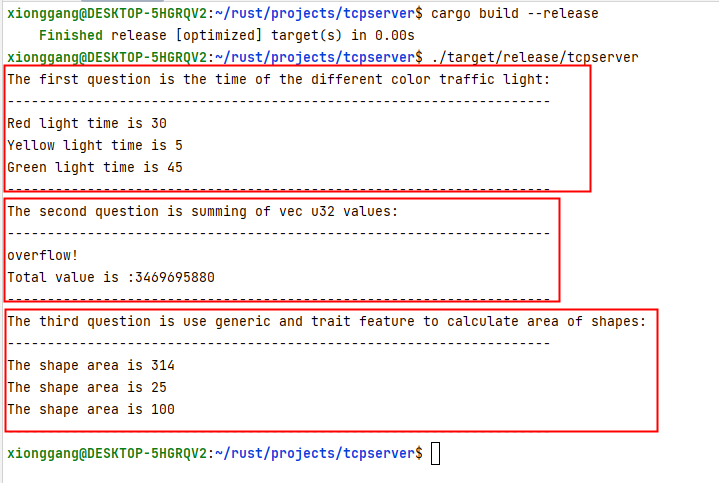
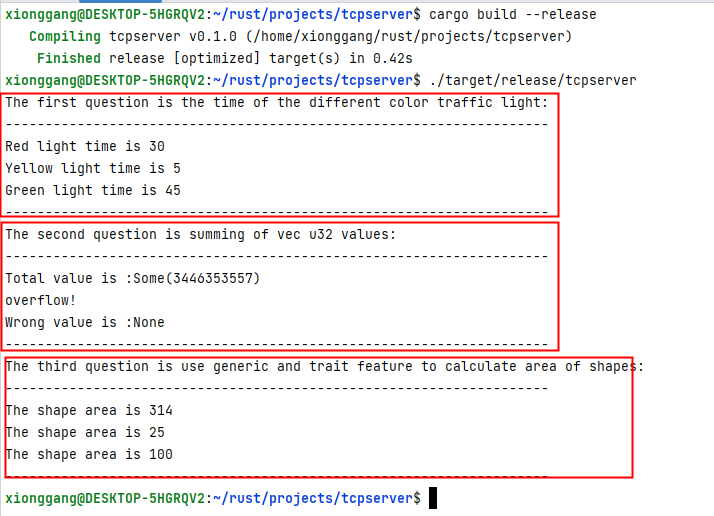
fix bug for the question 2 with not return None for overflow case

Changed region(s): [[0.0, 0.0, 0.9244, 0.9938]]

diff --git a/src/main.rs b/src/main.rs
@@ -12,27 +12,36 @@ fn main()  {
 
     println!("The second question is summing of vec u32 values:");
     println!("--------------------------------------------------------------------");
-    let ints:Vec<u32> = vec![1112121211, 2334232346, 1112121211, 23342323];
-    let total_ints = sum_u_ints(&ints);
-    println!("Total value is :{}", total_ints.unwrap());
+    // Normal case
+    let ints1:Vec<u32> = vec![1112121211, 2334232346];
+    println!("Total value is :{:?}", sum_u_ints(&ints1));
+    // overflow case
+    let ints2:Vec<u32> = vec![1112121211, 2334232346, 1112121211, 23342323];
+    println!("Wrong value is :{:?}", sum_u_ints(&ints2));
     println!("--------------------------------------------------------------------");
 
     println!("The third question is use generic and trait feature to calculate area of shapes:");
     println!("--------------------------------------------------------------------");
+    // init circle object with value
     let circle = Circle {
         radius: 10.0,
     };
+    // call function to print the area
     print_area(circle); // The shape area is 314
 
+    // init triangle object with value
     let triangle = Triangle {
         height: 10.0,
         base: 5.0
     };
+    // call function to print the area
     print_area(triangle); //The shape area is 25
 
+    // init square object with value
     let square = Square {
       side: 10.0,
     };
+    // call function to print the area
     print_area(square); // The shape area is 100
     println!("--------------------------------------------------------------------");
 }
@@ -44,10 +53,12 @@ enum TrafficLight {
     Yellow,
 }
 
+//define the trait for time of traffic light
 trait Light {
     fn time(&self) -> u8;
 }
 
+// implement the trait for enum
 impl Light for TrafficLight {
     fn time(&self) -> u8 {
         match &self {
@@ -61,57 +72,69 @@ impl Light for TrafficLight {
 // The code for the second question
 //-----------------------------------------------------
 fn sum_u_ints(items: &[u32]) -> Option<u32> {
+    // init the total with zero first
     let mut total = 0_u32;
+    // for loop all items of slice
     for u in items {
+        // add each value for total
         match total.checked_add(*u) {
+            //Set the new value to total if it is not overflow
             Some(v) => {
                 total = v;
             }
+            //if it is overflow,then print error and return None
             None => {
                 println!("overflow!");
-                ()
+               return None
             }
         }
     }
+    // return the total value if not overflow
     Some(total)
 }
 //-----------------------------------------------------
 
 // The code for third question
 //-----------------------------------------------------
+// define the trait for calculate area
 trait CalculateArea {
     fn area(&self) -> f32;
 }
 
+// Call area method for generic object to print the area of the shape object
 fn print_area<T:CalculateArea>(s:T) {
     println!("The shape area is {}", s.area())
 }
 
+// circle object struct
 struct Circle {
     radius: f32,
 }
 
+// implement the calculate area trait for circle
 impl CalculateArea for Circle {
     fn area(&self) -> f32 {
         3.14*self.radius*self.radius
     }
 }
 
+// triangle object struct
 struct Triangle {
     height: f32,
     base: f32,
 }
-
+// implement the calculate area trait for triangle
 impl CalculateArea for Triangle {
     fn area(&self) -> f32 {
         (self.base*self.height)/2.0
     }
 }
 
+// square object struct
 struct Square {
     side: f32,
 }
-
+// implement the calculate area trait for Square
 impl CalculateArea for Square {
     fn area(&self) -> f32 {
         self.side*self.side

diff --git a/src/calculate_area.rs b/src/calculate_area.rs
@@ -1,62 +1,74 @@
 fn main() {
     println!("The third question is use generic and trait feature to calculate area of shapes:");
     println!("--------------------------------------------------------------------");
+    // init circle object with value
     let circle = Circle {
         radius: 10.0,
     };
+    // call function to print the area
     print_area(circle); // The shape area is 314
 
+    // init triangle object with value
     let triangle = Triangle {
         height: 10.0,
-        base: 5.0,
+        base: 5.0
     };
+    // call function to print the area
     print_area(triangle); //The shape area is 25
 
+    // init square object with value
     let square = Square {
         side: 10.0,
     };
+    // call function to print the area
     print_area(square); // The shape area is 100
     println!("--------------------------------------------------------------------");
 }
 
 // The code for third question
 //-----------------------------------------------------
+// define the trait for calculate area
 trait CalculateArea {
     fn area(&self) -> f32;
 }
 
-fn print_area<T: CalculateArea>(s: T) {
+// Call area method for generic object to print the area of the shape object
+fn print_area<T:CalculateArea>(s:T) {
     println!("The shape area is {}", s.area())
 }
 
+// circle object struct
 struct Circle {
     radius: f32,
 }
 
+// implement the calculate area trait for circle
 impl CalculateArea for Circle {
     fn area(&self) -> f32 {
-        3.14 * self.radius * self.radius
+        3.14*self.radius*self.radius
     }
 }
 
+// triangle object struct
 struct Triangle {
     height: f32,
     base: f32,
 }
-
+// implement the calculate area trait for triangle
 impl CalculateArea for Triangle {
     fn area(&self) -> f32 {
-        (self.base * self.height) / 2.0
+        (self.base*self.height)/2.0
     }
 }
 
+// square object struct
 struct Square {
     side: f32,
 }
-
+// implement the calculate area trait for Square
 impl CalculateArea for Square {
     fn area(&self) -> f32 {
-        self.side * self.side
+        self.side*self.side
     }
 }
 //-----------------------------------------------------

diff --git a/src/sum_total_u32.rs b/src/sum_total_u32.rs
@@ -1,24 +1,33 @@
 fn main() {
-    let ints: Vec<u32> = vec![1112121211, 2334232346, 1112121211, 23342323];
-    let total_ints = sum_u_ints(&ints);
-    println!("Total value is :{}", total_ints.unwrap());
+    // Normal case
+    let ints1:Vec<u32> = vec![1112121211, 2334232346];
+    println!("Total value is :{:?}", sum_u_ints(&ints1));
+    // overflow case
+    let ints2:Vec<u32> = vec![1112121211, 2334232346, 1112121211, 23342323];
+    println!("Wrong value is :{:?}", sum_u_ints(&ints2));
 }
 
 // The code for the second question
 //-----------------------------------------------------
 fn sum_u_ints(items: &[u32]) -> Option<u32> {
+    // init the total with zero first
     let mut total = 0_u32;
+    // for loop all items of slice
     for u in items {
+        // add each value for total
         match total.checked_add(*u) {
+            //Set the new value to total if it is not overflow
             Some(v) => {
                 total = v;
             }
+            //if it is overflow,then print error and return None
             None => {
                 println!("overflow!");
-                ()
+                return None
             }
         }
     }
+    // return the total value if not overflow
     Some(total)
 }
 //-----------------------------------------------------

diff --git a/src/traffic_light.rs b/src/traffic_light.rs
@@ -13,11 +13,12 @@ enum TrafficLight {
     Green,
     Yellow,
 }
-
+//define the trait for time of traffic light
 trait Light {
     fn time(&self) -> u8;
 }
 
+// implement the trait for enum
 impl Light for TrafficLight {
     fn time(&self) -> u8 {
         match &self {

diff --git a/README.md b/README.md
@@ -27,8 +27,9 @@ Green light time is 45
 --------------------------------------------------------------------
 The second question is summing of vec u32 values:
 --------------------------------------------------------------------
+Total value is :Some(3446353557)
 overflow!
-Total value is :3469695880
+Wrong value is :None
 --------------------------------------------------------------------
 The third question is use generic and trait feature to calculate area of shapes:
 --------------------------------------------------------------------
